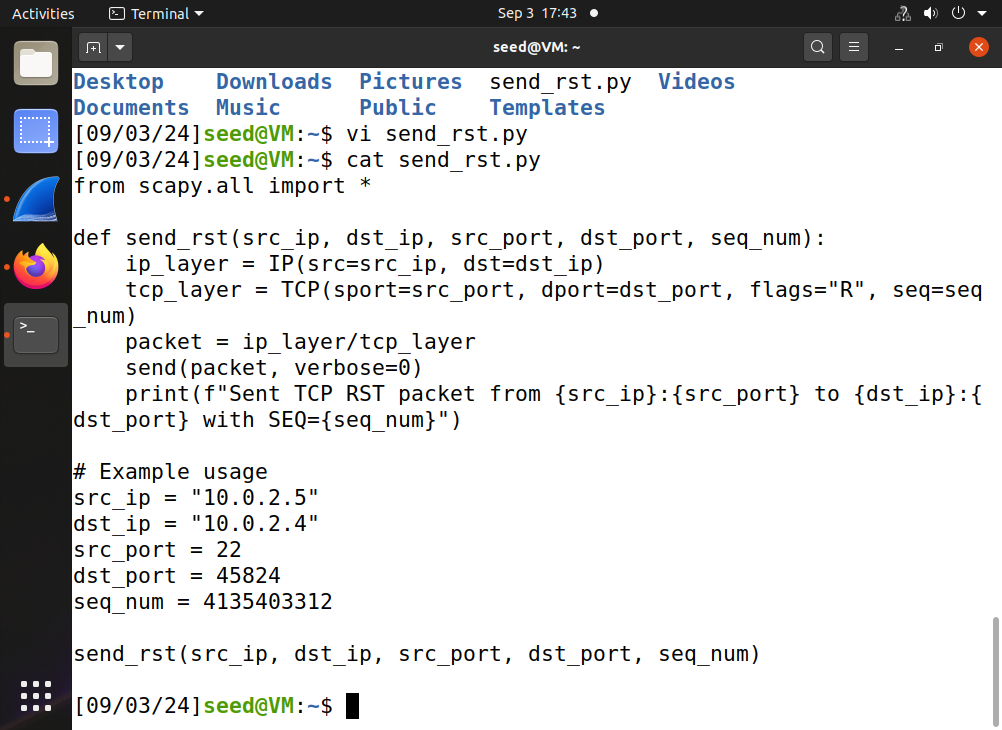
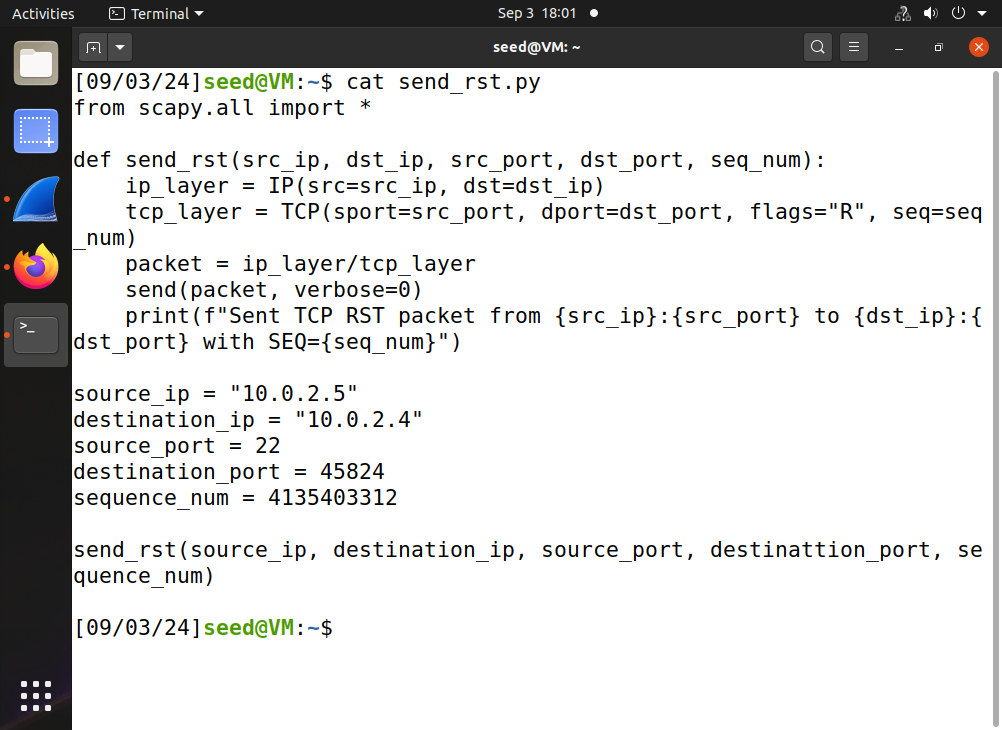
change variable names to make it clear

diff --git a/labs/tcpreset/README.md b/labs/tcpreset/README.md
@@ -8,7 +8,7 @@ In this lab, we will break an ssh connection between the victim client and the s
 
 3 Linux VMs. VM1 as the victim (ssh client); VM2 as the ssh server; VM3 as the attacker. The 3 VMs reside in the same network.
 
-In addition, make sure the python module scapy is installed in the attacker VM. If not, run this command to install scapy:
+In addition, make sure the python module scapy is installed in the attacker VM. If not, run these two commands to install scapy:
 
 ```console
 # sudo apt update
